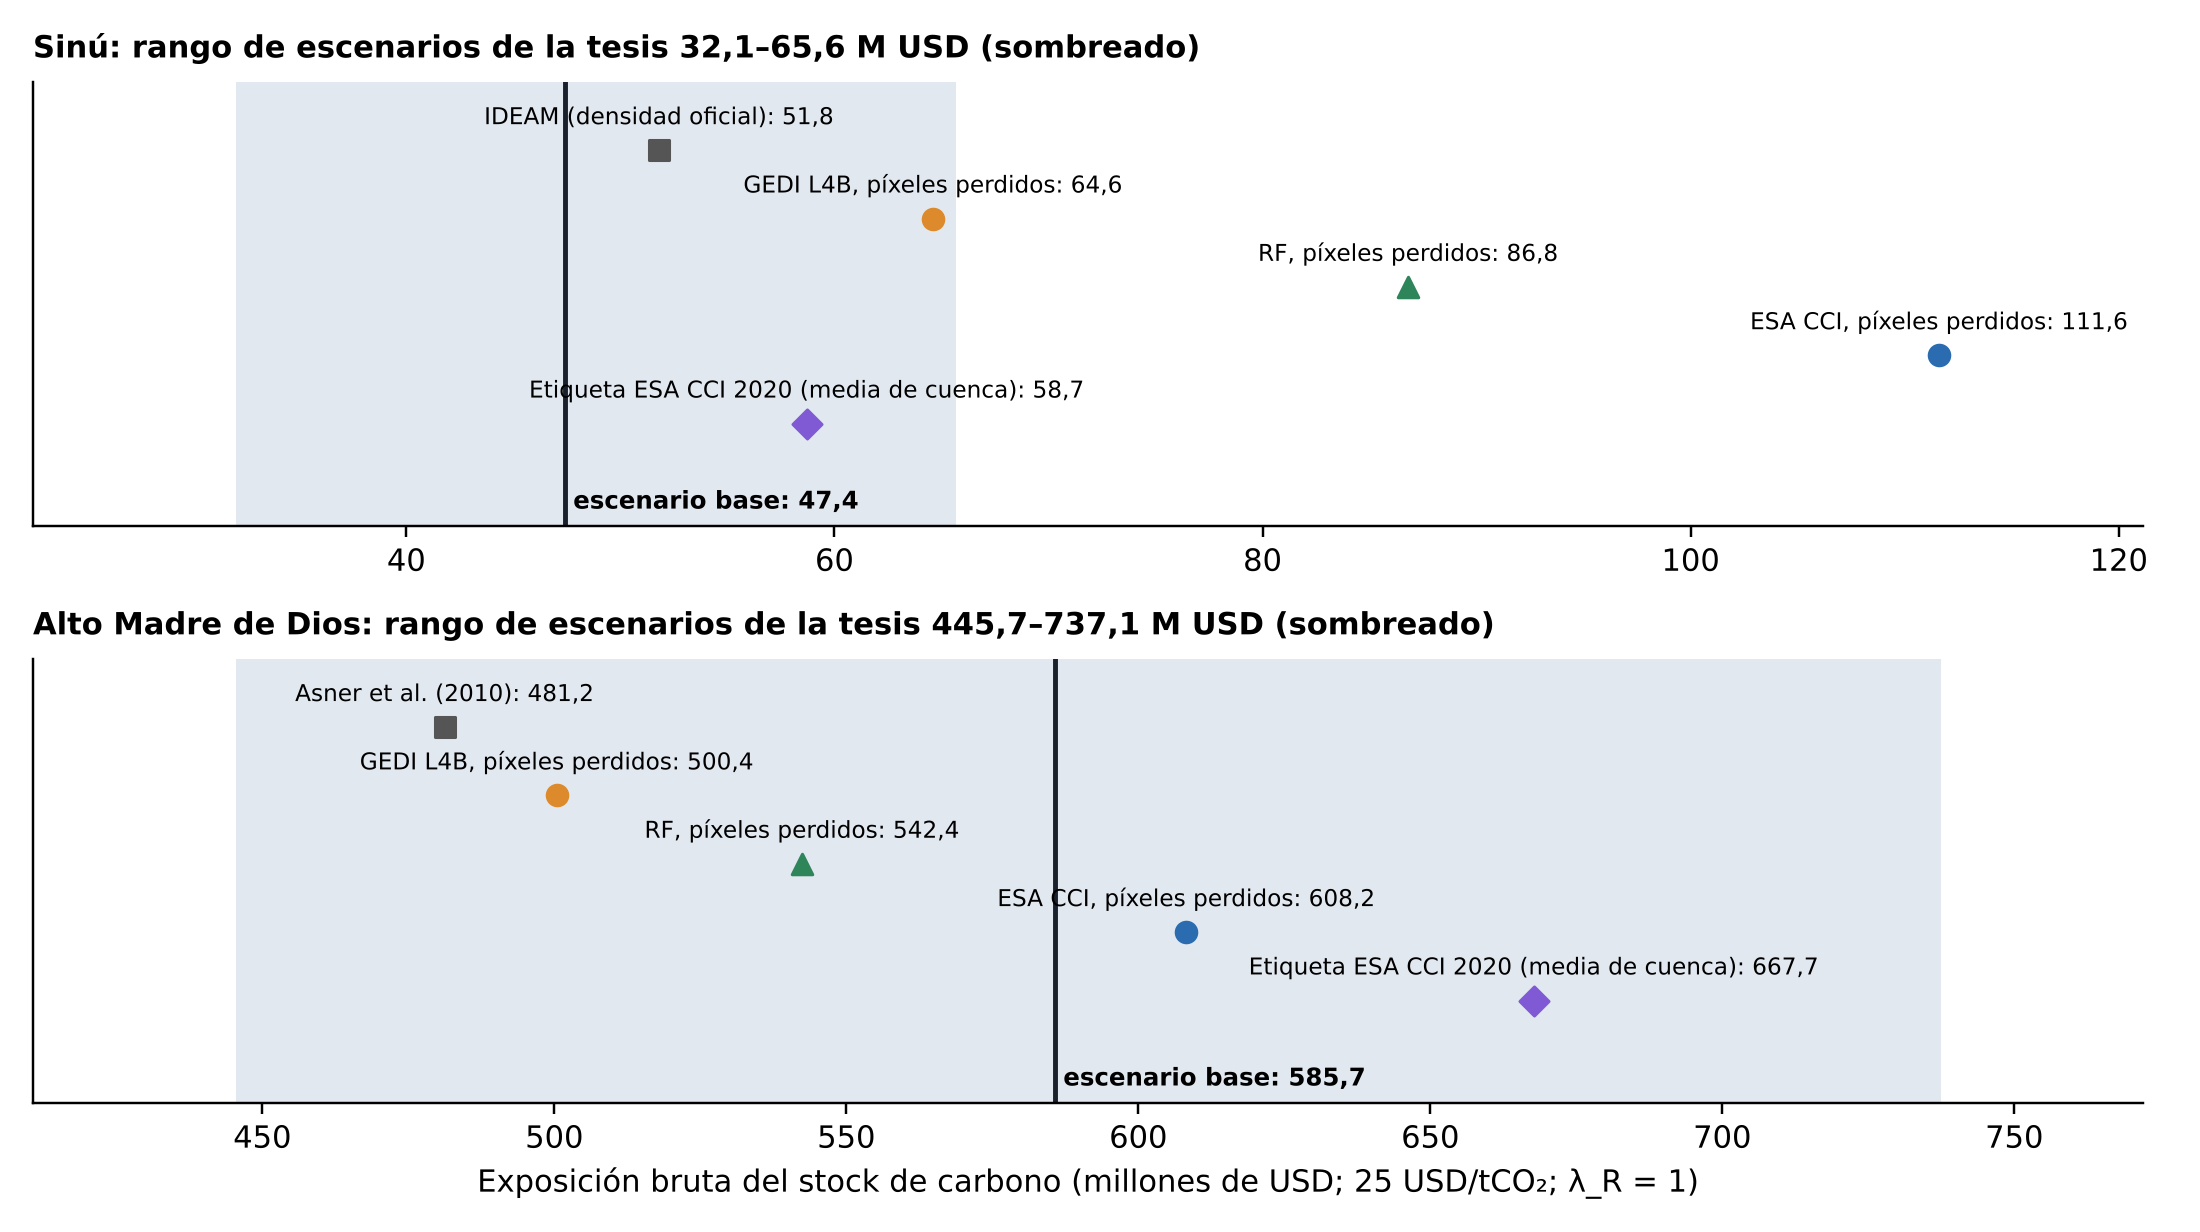
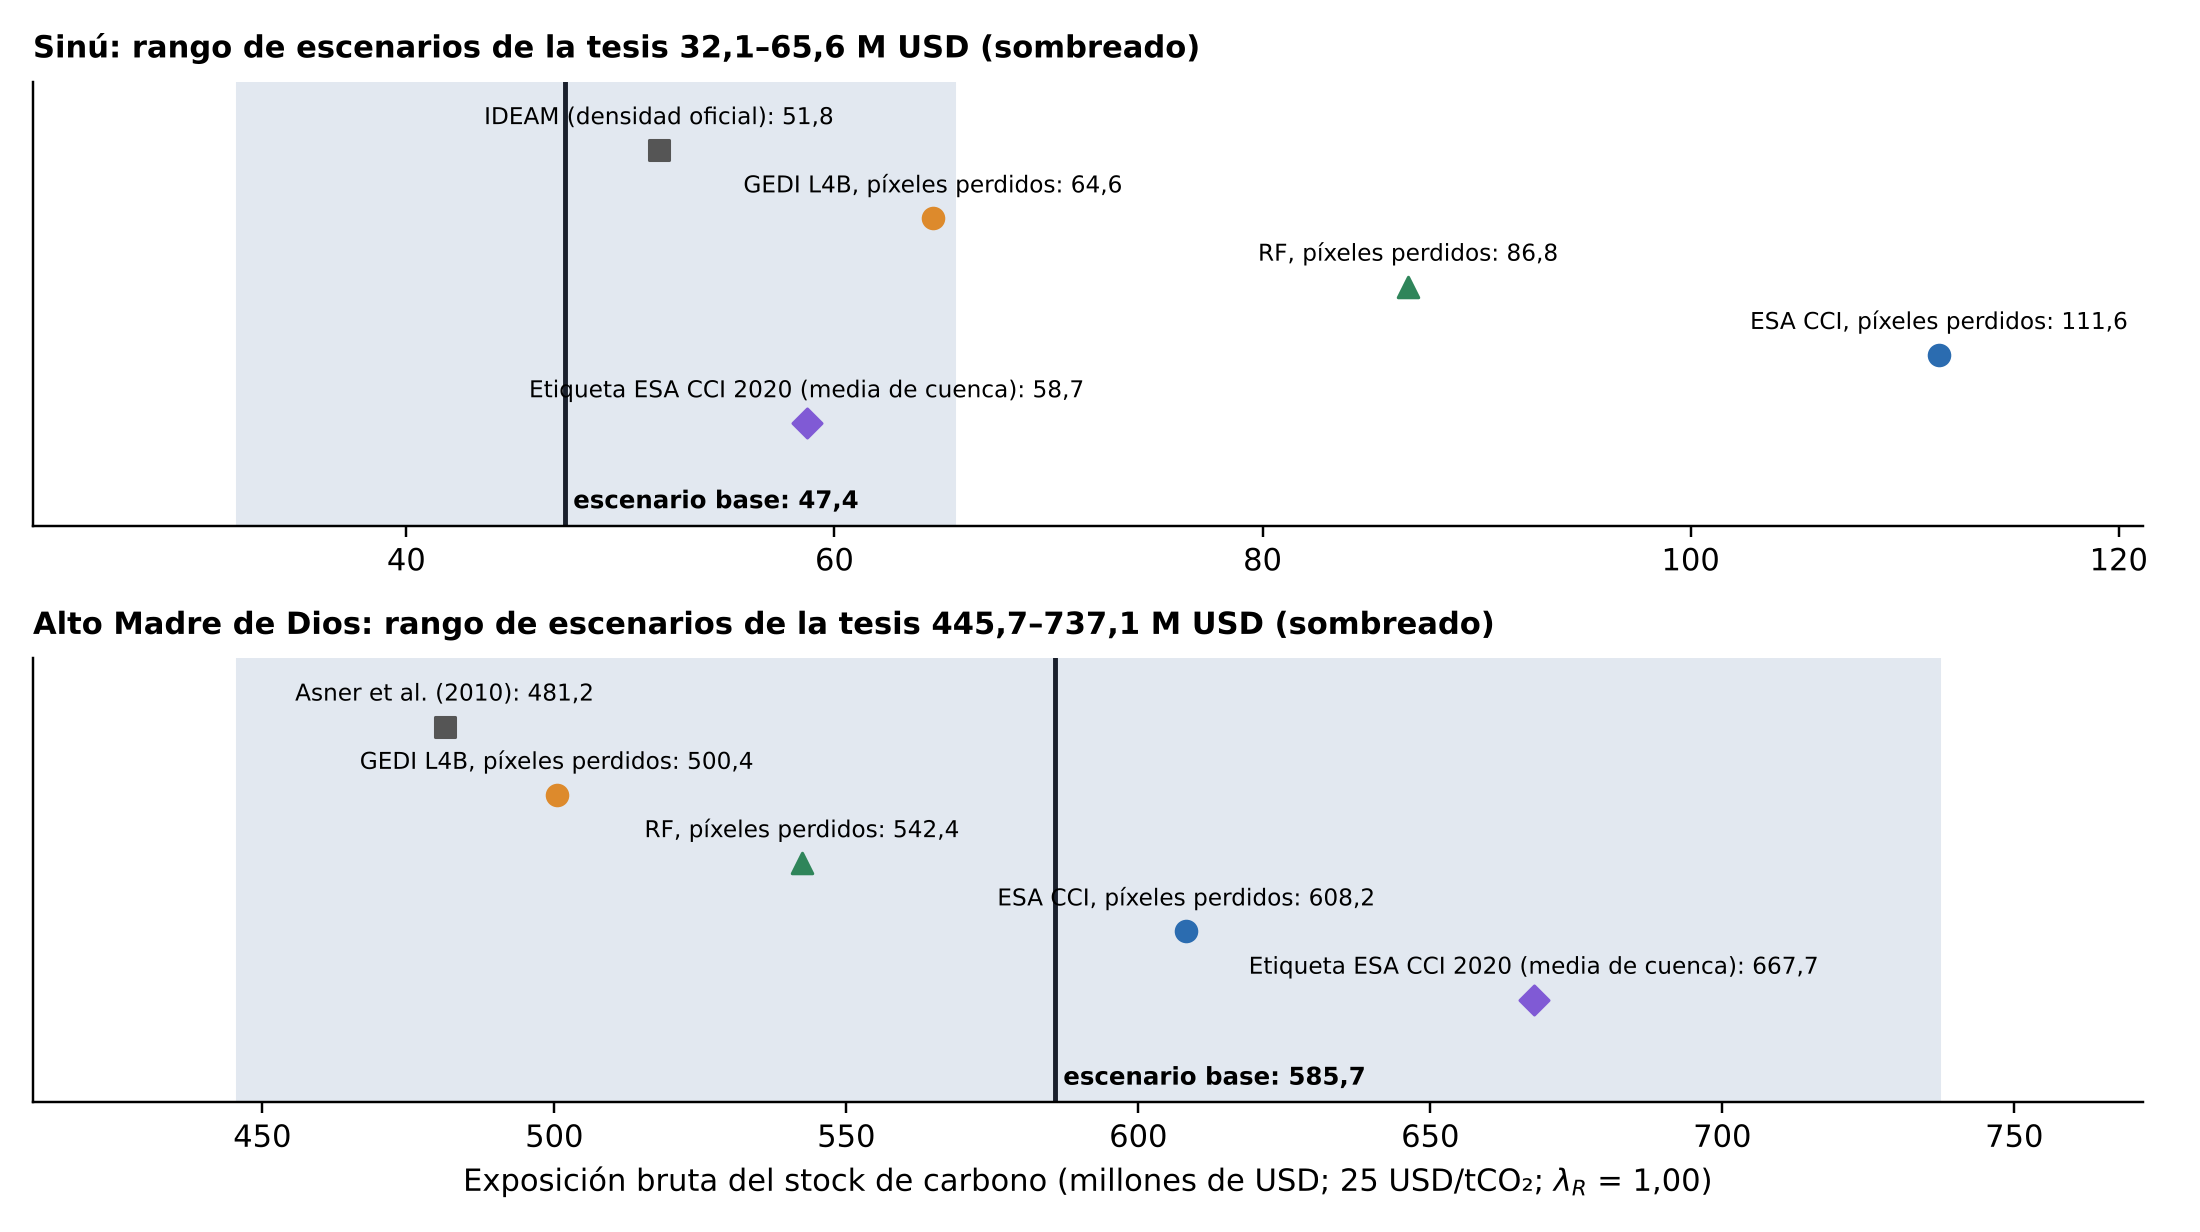
Resultados: RADD confirmadas, superficie minera y rótulo λR de la Figura 9

diff --git a/results/VALIDATION_RESULTS.md b/results/VALIDATION_RESULTS.md
@@ -39,7 +39,7 @@ Este archivo recoge las salidas de consola de los scripts de `gee/` que sustenta
 | Producción primaria neta 2020 / 2023 | 23,2 / 20,8 | tCO₂/ha·año | 500 m | anual | MODIS MOD17A3HGF |
 | Proxy de pérdida de suelo | 0,45 | t/ha·año | 1000 m | 2023-24 | CHIRPS + SRTM + NDVI |
 | Pérdida de cubierta arbórea Hansen | 14.580 | ha | 30 m | 2020-2024 | UMD Hansen GFC v1.12 |
-| Alertas RADD | 5.605 | ha | 30 m | 2020-2024 | WUR RADD (Sentinel-1) |
+| Alertas RADD confirmadas (Alert = 3) | 5.605 | ha | 30 m | 2020-2024 | WUR RADD (Sentinel-1) |
 | Área quemada MODIS | 3.246 | ha | 500 m | 2020-2024 | MCD64A1 |
 
 ## Lectura económica (Sinú) — epígrafe 5.2.4 y Tabla 8 de la tesis
@@ -59,7 +59,7 @@ Al no ser un flujo anual, la cifra no se capitaliza. Con la densidad de los píx
 |---|---|---|---|---|---|
 | Superficie de la cuenca | 35.183,22 | km² | — | — | HydroSHEDS `hybas_8`, prefijo de `PFAF_ID` (PREFIX_LEN = 7) |
 | Pérdida de cubierta arbórea Hansen | 57.141 | ha | 100 m | 2020-2024 | UMD Hansen GFC v1.12 |
-| Alertas RADD | 148.930,05 | ha | 100 m | 2020-2024 | WUR RADD (Sentinel-1) |
+| Alertas RADD confirmadas (Alert = 3) | 148.930,05 | ha | 100 m | 2020-2024 | WUR RADD (Sentinel-1) |
 | NDVI 2020 / 2024 | 0,773 / 0,792 | – | 300 m | estación seca jun.-sep. 2020 / 2023 | Sentinel-2 |
 | Indicador de condición C (verdor) 2020 / 2024 | 0,904 / 0,926 | 0–1 | 300 m | jun–sep 2020 / 2023 | Sentinel-2 (referencia H = 0,85) |
 | NDVI Landsat 2024 | 0,813 | – | 500 m | jun–sep 2023 | Landsat 8 (diferencia S2 − Landsat = −0,021) |
@@ -70,7 +70,7 @@ Al no ser un flujo anual, la cifra no se capitaliza. Con la densidad de los píx
 
 > **Nota sobre la delimitación.** El Sinú es una cuenca costera independiente y se selecciona bien con `MAIN_BAS` de HydroBASINS. El Alto Madre de Dios, en cambio, es un afluente amazónico, y `MAIN_BAS` arrastra toda la red amazónica aguas arriba (unos 5,9 millones de km² en la primera ejecución). Por eso se delimita por coincidencia de prefijo del código Pfafstetter (`PFAF_ID`) en el nivel más fino `hybas_8`. El ajuste de `PREFIX_LEN` está documentado en los comentarios `FIX` de los scripts: con 6 dígitos salen 125.554 km² y con 7, 35.183 km², que es el valor adoptado.
 
-> La pérdida con firma minera (1.371 ha) es una fracción pequeña de la pérdida Hansen total (57.141 ha) y debe leerse como una cota inferior de la superficie minera: el filtro espectral omite pozas inundadas, zonas en regeneración y minería bajo dosel. El resto de la pérdida no puede atribuirse a una causa concreta sin un análisis de impulsores.
+> La pérdida con firma minera (1.371 ha) es una fracción pequeña de la pérdida Hansen total (57.141 ha) y probablemente infraestima la superficie minera (el filtro espectral, B11 > 0,25 y NDVI < 0,3, omite pozas inundadas, zonas revegetadas y la pérdida de 2024), aunque no es una cota inferior estricta: puede incluir falsos positivos, como barras fluviales, deslizamientos o suelo desnudo. El resto de la pérdida no puede atribuirse a una causa concreta sin un análisis de impulsores.
 
 ## Random Forest — `rf_biomass_mdb_to_madrededios.js` (etiqueta: NASA/ORNL `agb`, 2010, 300 m)
 | Variable | Valor | Unidad | Notas |
